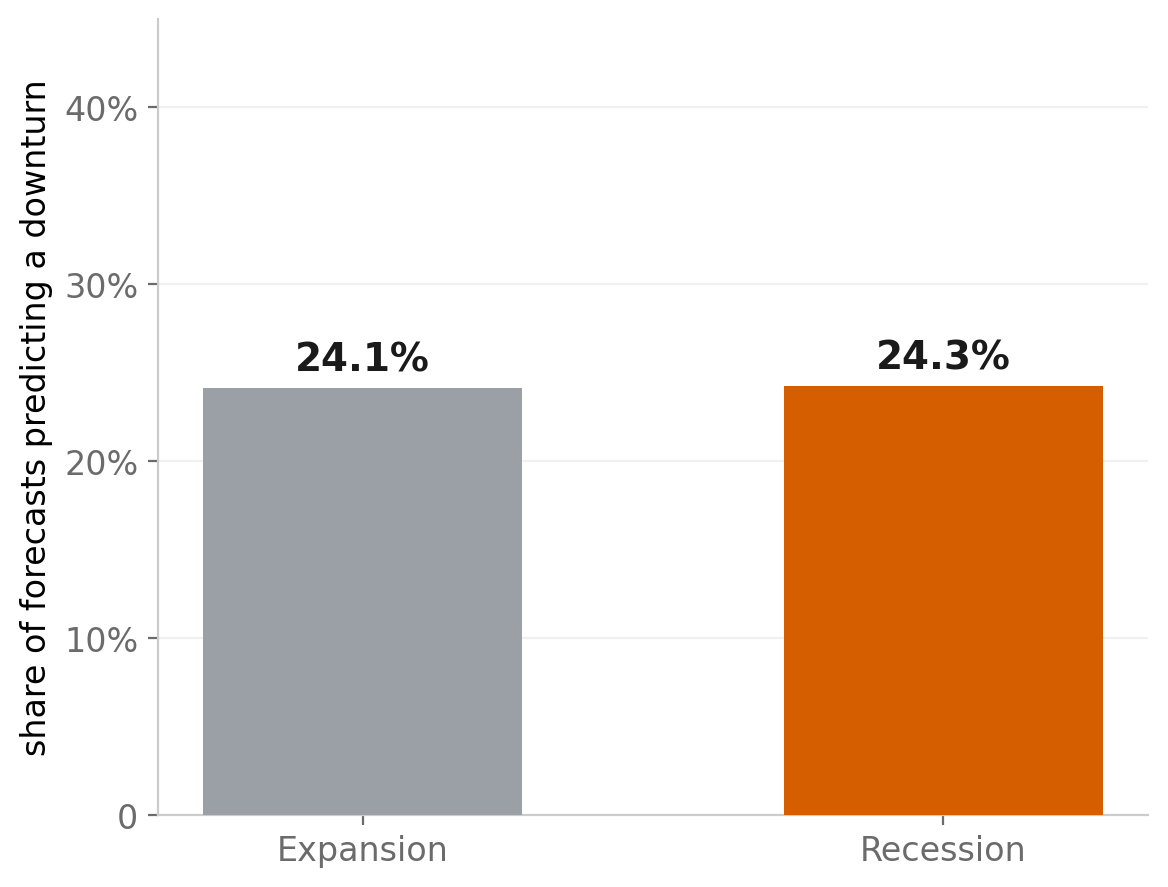
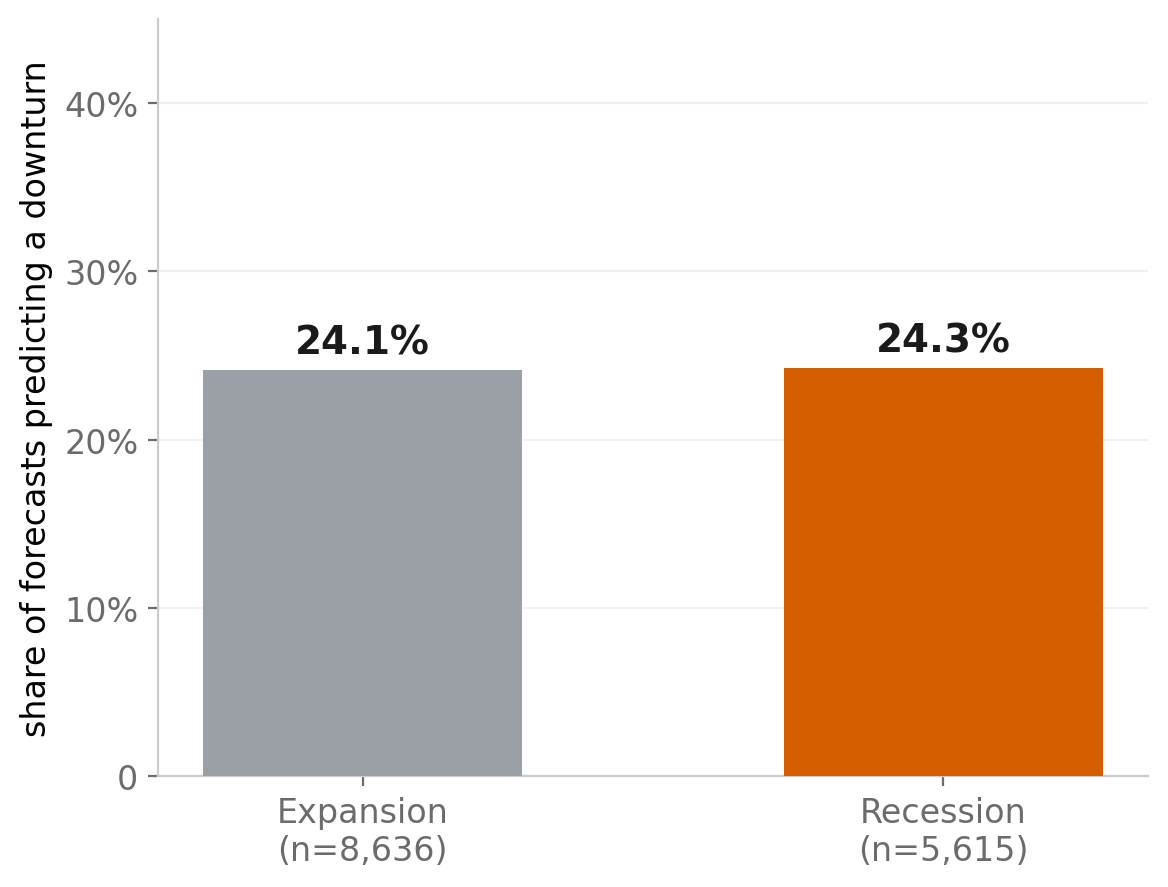
m

diff --git a/more_model_images/make_recession_auc_by_period_figure.py b/more_model_images/make_recession_auc_by_period_figure.py
@@ -19,6 +19,13 @@ signal ranks recession onsets within a period at all. The forward-only numbers
 are the real-time claim; these are the per-period one. Do not mix them in one
 sentence.
 
+The 1960-63 bar is the exception: the corpus ends 1963-12, so its training set
+is 1901-1959 and nothing else, which makes it real-time by accident. It is also
+the bar to trust least -- one NBER peak (1960-04) falls in the window, so the
+period holds 3 positive months, all consecutive. Enumerating all 7,770 ways 3
+positives can be ranked among 37 months puts the null AUC's 95% range at
+[0.157, 0.843]; anything this period reports sits inside it.
+
 Model, features and target are imported from make_broad_vs_attention_figure --
 same five d12 press series, same L2 logistic regression at C = 1, same
 "NBER recession starts within 12 months" target on expansion months only -- so

diff --git a/src/make_poster_figures.py b/src/make_poster_figures.py
@@ -88,7 +88,11 @@ def fig_mechanism(s):
 
     # A1: the share that predicted a downturn, expansion vs recession
     fig, ax1 = plt.subplots(figsize=(6, 4.6))
-    labels = ["Expansion", "Recession"]
+    # n on the tick, not in a caption: the two bars rest on very different
+    # sample sizes, and a reader comparing them should see that without
+    # leaving the axes. Same (n=...) form figF1 uses.
+    labels = [f"Expansion\n(n={g.loc[False, 'n']:,})",
+              f"Recession\n(n={g.loc[True, 'n']:,})"]
     vals = [g.loc[False, "pess"], g.loc[True, "pess"]]
     ax1.bar(labels, vals, color=[GRAY, VERM], width=.55, zorder=3)
     for i, v in enumerate(vals):
